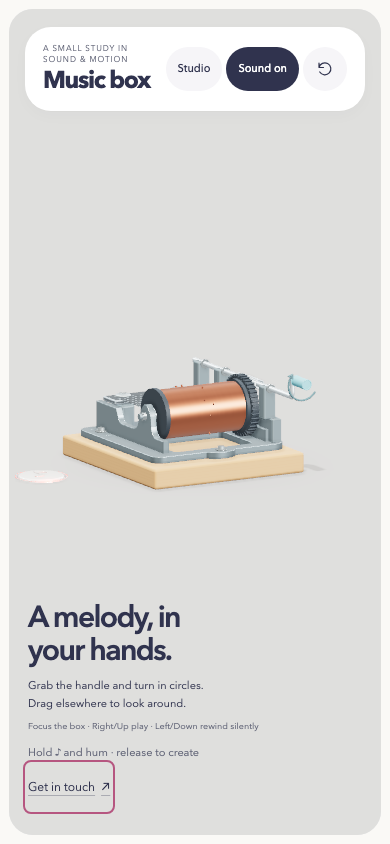
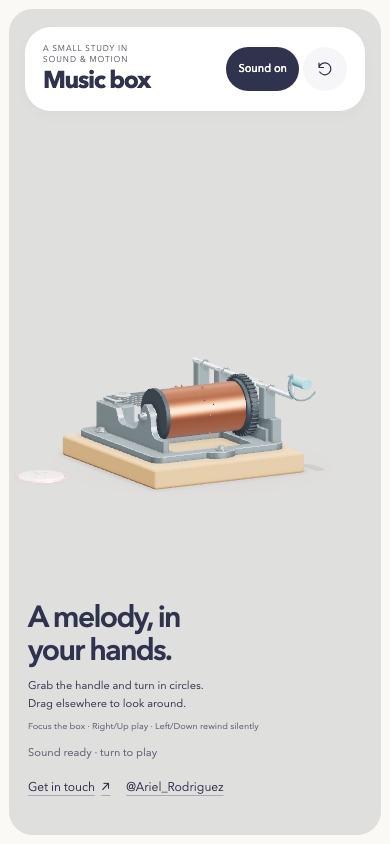
feat: add visitor mode and personal maker signature

Changed region(s): [[0.0615, 0.8626, 0.5846, 0.955], [0.4615, 0.0616, 0.5231, 0.0924], [0.0615, 0.955, 0.0923, 0.9858]]

diff --git a/src/main.js b/src/main.js
@@ -13,7 +13,7 @@ import { MusicAudio } from './audio.js'
 import { createCrankHint } from './crank-hint.js'
 import { createFallingNotes } from './falling-notes.js'
 import { createRecordButton } from './record-button.js'
-import { createStudio } from './studio.js'
+import { createSceneState } from './scene-state.js'
 import { DEFAULT_SETTINGS, clone } from './studio-config.js'
 
 const app = document.querySelector('#app')
@@ -134,6 +134,7 @@ const intersection = new THREE.Vector3()
 const abort = new AbortController()
 const listen = (target, type, callback, options = {}) => target.addEventListener(type, callback, { ...options, signal: abort.signal })
 let studio = null
+let sceneState = null
 let applying = false
 let currentSettings = clone(DEFAULT_SETTINGS)
 const fallingNotes=createFallingNotes();scene.add(fallingNotes.root)
@@ -142,7 +143,7 @@ const texturePool = new Map()
 rememberPartPositions()
 controls.addEventListener('change', () => {
   dirty = true
-  if (!applying && studio) studio.syncCamera(cameraSnapshot())
+  if (!applying && sceneState) sceneState.syncCamera(cameraSnapshot())
 })
 
 function increment(delta) {
@@ -211,7 +212,7 @@ listen(canvas, 'pointerdown', event => {
   if (!raycaster.intersectObject(box.hitTarget).length) return
   if (isExploded()) {
     event.stopImmediatePropagation(); event.preventDefault()
-    studio.assemble()
+    sceneState.assemble()
     return
   }
   // Capture phase runs before OrbitControls' pointer listener.
@@ -259,7 +260,7 @@ listen(canvas, 'keydown', event => {
   if (!['ArrowRight', 'ArrowLeft', 'ArrowUp', 'ArrowDown'].includes(event.key)) return
   event.preventDefault()
   if (activePointer !== null || event.repeat) return
-  if (isExploded()) studio.assemble()
+  if (isExploded()) sceneState.assemble()
   unlock()
   increment(PLAY_DIRECTION * (['ArrowRight', 'ArrowUp'].includes(event.key) ? Math.PI / 6 : -Math.PI / 6))
 })
@@ -267,15 +268,15 @@ listen(canvas,'keyup',event=>{if([' ','Enter'].includes(event.key)&&keyboardReco
 listen(canvas,'blur',()=>{if(keyboardRecording){keyboardRecording=false;recordButton?.cancel()}})
 listen(document.querySelector('#sound'), 'click', async () => {
   const button = document.querySelector('#sound')
-  if (!audio.context) await unlock()
-  else audio.muted = !audio.muted
-  button.setAttribute('aria-pressed', String(audio.muted))
+  audio.muted = !audio.muted
+  if(!audio.muted)await unlock()
+  button.setAttribute('aria-pressed', String(!audio.muted))
   button.textContent = audio.muted ? 'Sound off' : 'Sound on'
   status.textContent = audio.muted ? 'Sound off' : 'Sound ready · turn to play'
 })
 function resetView() {
   stop()
-  studio?.setCamera(clone(DEFAULT_SETTINGS.camera))
+  sceneState?.setCamera(clone(DEFAULT_SETTINGS.camera))
 }
 listen(document.querySelector('#reset'), 'click', resetView)
 function resize() {
@@ -298,23 +299,31 @@ function resize() {
 }
 listen(reducedMotion,'change',()=>{fallingNotes.clear();dirty=true})
 listen(window, 'resize', resize)
-studio = createStudio({
-  apply: applySettings,
-  capture: captureScene,
-  pick: active => canvas.classList.toggle('picking', active),
-  frameModel,
-  resetCamera: resetView,
-  previewCrankArrow:active=>{crankHint.preview(active);dirty=true},
-  clearFallingNotes:()=>{fallingNotes.clear();dirty=true},
-  recordingChanged: recordingChanged,
-  canRecord:()=>!capturing&&(!recordButton||recordButton.state()==='idle'),
-})
+if(import.meta.env.DEV&&new URLSearchParams(location.search).get('studio')==='1') {
+  const toggle=document.createElement('button')
+  toggle.id='studio-toggle';toggle.textContent='Studio';toggle.setAttribute('aria-controls','studio-panel');toggle.setAttribute('aria-expanded','false')
+  document.querySelector('.actions').prepend(toggle)
+  const {createStudio}=await import('./studio.js')
+  studio = createStudio({
+    apply: applySettings,
+    capture: captureScene,
+    pick: active => canvas.classList.toggle('picking', active),
+    frameModel,
+    resetCamera: resetView,
+    previewCrankArrow:active=>{crankHint.preview(active);dirty=true},
+    clearFallingNotes:()=>{fallingNotes.clear();dirty=true},
+    recordingChanged: recordingChanged,
+    canRecord:()=>!capturing&&(!recordButton||recordButton.state()==='idle'),
+  })
+  sceneState=studio
+} else sceneState=createSceneState({apply:applySettings,message:text=>{status.textContent=text}})
+
 recordButton=createRecordButton({
   changed:()=>{dirty=true}, recordingChanged,
-  canStart:()=>!capturing&&!studio.tuneBusy(),
+  canStart:()=>!capturing&&!studio?.tuneBusy(),
   currentColor:()=>currentSettings.materials.cylinder.color,
   message:text=>{status.textContent=text},
-  install:(melody,color)=>{const next=studio.getSettings();next.melody=melody;next.materials.cylinder.color=color;next.composition.explode=0;for(const key of Object.keys(next.composition.offsets))next.composition.offsets[key]={x:0,y:0,z:0};studio.setSettings(next)},
+  install:(melody,color)=>{const next=sceneState.getSettings();next.melody=melody;next.materials.cylinder.color=color;next.composition.explode=0;for(const key of Object.keys(next.composition.offsets))next.composition.offsets[key]={x:0,y:0,z:0};sceneState.setSettings(next)},
 })
 scene.add(recordButton.root)
 recordButton.configure(currentSettings.recordButton)
@@ -340,7 +349,7 @@ renderer.setAnimationLoop(() => {
   composer.render()
 })
 if (import.meta.hot) import.meta.hot.dispose(() => {
-  stop(); crankHint.dispose(); fallingNotes.dispose(); recordButton?.dispose(); studio?.dispose(); abort.abort(); renderer.setAnimationLoop(null); controls.dispose(); audio.dispose()
+  stop(); crankHint.dispose(); fallingNotes.dispose(); recordButton?.dispose(); sceneState?.dispose?.();document.querySelector('#studio-toggle')?.remove(); abort.abort(); renderer.setAnimationLoop(null); controls.dispose(); audio.dispose()
   disposeObject(scene)
   texturePool.forEach(texture => texture.dispose())
   environment.dispose(); occlusion.dispose(); outputPass.dispose(); composer.dispose(); renderer.dispose(); canvas.remove()
@@ -466,7 +475,7 @@ function frameModel() {
   const bounds = new THREE.Box3().setFromObject(box.root)
   const center = bounds.getCenter(new THREE.Vector3()), size = bounds.getSize(new THREE.Vector3())
   const diameter = Math.max(size.x, size.y, size.z)
-  studio.setCamera({ target: { x: center.x, y: center.y, z: center.z }, zoom: Math.min(2, Math.max(.4, 2.65 / diameter)), distance: Math.min(10, Math.max(2.6, diameter * 2.5)) })
+  sceneState.setCamera({ target: { x: center.x, y: center.y, z: center.z }, zoom: Math.min(2, Math.max(.4, 2.65 / diameter)), distance: Math.min(10, Math.max(2.6, diameter * 2.5)) })
 }
 function surfaceTexture(part, type) {
   const key = `${part}:${type}`

diff --git a/src/scene-state.js b/src/scene-state.js
@@ -1,0 +1,45 @@
+import projectStudy from '../studies/current.json' with { type: 'json' }
+import { clone, validateSettings, GROUPS } from './studio-config.js'
+
+import { DRAFT_KEY, readSceneDraft } from './scene-storage.js'
+export const SAVED_SETTINGS=validateSettings(projectStudy.settings)
+
+// Visitor state keeps recording and saved designs working without constructing editor UI.
+export function createSceneState({apply,message}) {
+  let settings=clone(SAVED_SETTINGS)
+  function persist() {
+    try {localStorage.setItem(DRAFT_KEY,JSON.stringify({updatedAt:Date.now(),settings}))}
+    catch {message('This browser cannot save your changes across refresh.')}
+  }
+  function commit(next) {
+    const checked=validateSettings(next),previous=settings
+    apply(checked,previous);settings=checked;persist()
+  }
+  const ready=(async()=>{
+    // Let the mechanism and recording button finish initializing before applying a study.
+    await Promise.resolve()
+    let saved=projectStudy
+    if(import.meta.env.DEV) {
+      try {
+        const response=await fetch('/__musicbox/study')
+        if(!response.ok)throw new Error('Could not load the local study.')
+        const local=await response.json()
+        if(local.settings)saved={...local,settings:validateSettings(local.settings)}
+      } catch {message('Using the bundled setup; the local study could not be loaded.')}
+    }
+    settings=validateSettings(saved.settings)
+    try {
+      const draft=readSceneDraft()
+      if(draft?.settings&&draft.updatedAt>(Date.parse(saved.savedAt)||0))settings=validateSettings(draft.settings)
+    } catch {message('Could not restore browser changes; using the saved setup.')}
+    apply(settings,null)
+  })()
+  return {
+    ready,
+    getSettings:()=>clone(settings),
+    setSettings:commit,
+    setCamera(camera){const next=clone(settings);next.camera={...next.camera,...camera};commit(next)},
+    syncCamera(camera){settings.camera={...settings.camera,...camera};persist()},
+    assemble(){const next=clone(settings);next.composition.explode=0;for(const key of Object.keys(GROUPS))next.composition.offsets[key]={x:0,y:0,z:0};commit(next)},
+  }
+}

diff --git a/index.html b/index.html
@@ -10,12 +10,12 @@
   <body>
     <header>
       <div><p class="eyebrow">A small study in sound &amp; motion</p><h1>Music box</h1></div>
-      <div class="actions"><button id="studio-toggle" aria-controls="studio-panel" aria-expanded="false">Studio</button><button id="sound" aria-pressed="false">Sound on</button><button id="reset" aria-label="Reset view"><svg aria-hidden="true" viewBox="0 0 24 24" width="18" height="18" fill="none" stroke="currentColor" stroke-width="1.6"><path d="M4 10a8 8 0 1 1 1 6M4 4v6h6" stroke-linecap="round" stroke-linejoin="round"/></svg><span>Reset view</span></button></div>
+      <div class="actions"><button id="sound" aria-pressed="true">Sound on</button><button id="reset" aria-label="Reset view"><svg aria-hidden="true" viewBox="0 0 24 24" width="18" height="18" fill="none" stroke="currentColor" stroke-width="1.6"><path d="M4 10a8 8 0 1 1 1 6M4 4v6h6" stroke-linecap="round" stroke-linejoin="round"/></svg><span>Reset view</span></button></div>
     </header>
     <main id="app"></main>
     <footer>
       <div id="instructions"><p class="lead">A melody, in your hands.</p><p>Grab the handle and turn in circles.<br>Drag elsewhere to look around.</p><p class="note">Focus the box · Right/Up play · Left/Down rewind silently</p></div>
-      <div class="footer-aside"><p id="status" role="status">Sound starts with your first turn.</p><a class="contact-link" href="mailto:ariel.rodriguez@rho.co" aria-label="Email Ariel Rodriguez">Get in touch <span aria-hidden="true">↗</span></a></div>
+      <div class="footer-aside"><p id="status" role="status">Sound starts with your first turn.</p><nav class="contact-links" aria-label="Contact Ariel"><a class="contact-link" href="mailto:ariel.rodriguez@hey.com" aria-label="Email Ariel Rodriguez">Get in touch <span aria-hidden="true">↗</span></a><a class="contact-link" href="https://x.com/Ariel_Rodriguez" target="_blank" rel="noopener noreferrer" aria-label="@Ariel_Rodriguez on X (opens in a new tab)">@Ariel_Rodriguez</a></nav></div>
     </footer>
     <script type="module" src="/src/main.js"></script>
   </body>

diff --git a/tests/scene-storage.test.js b/tests/scene-storage.test.js
@@ -1,0 +1,28 @@
+import test from 'node:test'
+import assert from 'node:assert/strict'
+import { DEFAULT_SETTINGS, clone } from '../src/studio-config.js'
+import { DRAFT_KEY, readSceneDraft } from '../src/scene-storage.js'
+
+function withStorage(entries,run) {
+  const previous=Object.getOwnPropertyDescriptor(globalThis,'localStorage'),values=new Map(entries)
+  Object.defineProperty(globalThis,'localStorage',{configurable:true,value:{getItem:key=>values.get(key)??null,setItem:(key,value)=>values.set(key,value)}})
+  try{run(values)}finally{if(previous)Object.defineProperty(globalThis,'localStorage',previous);else delete globalThis.localStorage}
+}
+test('existing Studio drafts migrate without altering a captured hum or the legacy backup',()=>{
+  const settings=clone(DEFAULT_SETTINGS);settings.scene.showMark=false
+  settings.melody={notes:[{midi:60,start:0,duration:.4},{midi:64,start:.6,duration:.3}],transpose:12}
+  const legacy=JSON.stringify({updatedAt:123,settings})
+  withStorage([['music-box-studio-v1',legacy]],values=>{
+    const migrated=readSceneDraft()
+    assert.deepEqual(migrated.settings.melody,settings.melody)
+    assert.equal(migrated.settings.scene.showMark,true)
+    assert.equal(migrated.updatedAt,123)
+    assert.equal(values.get('music-box-studio-v1'),legacy)
+    assert.equal(values.has(DRAFT_KEY),false)
+  })
+})
+test('current drafts keep an explicit later choice to hide the signature',()=>{
+  const settings=clone(DEFAULT_SETTINGS);settings.scene.showMark=false
+  const current={updatedAt:456,settings}
+  withStorage([[DRAFT_KEY,JSON.stringify(current)],['music-box-studio-v1','bad legacy data']],()=>assert.deepEqual(readSceneDraft(),current))
+})

diff --git a/src/model.js b/src/model.js
@@ -199,13 +199,16 @@ export function createMusicBox(shape = DEFAULT_GEOMETRY, pins = PINS) {
   const labelCanvas = document.createElement('canvas')
   labelCanvas.width = 512; labelCanvas.height = 128
   const ctx = labelCanvas.getContext('2d')
-  ctx.font = 'bold 46px Arial'; ctx.textAlign = 'center'; ctx.fillStyle = '#7d695b'
-  ctx.fillText('www.fridolin.de', 256, 80)
+  ctx.font = 'bold 46px Arial'; ctx.textAlign = 'center'; ctx.textBaseline = 'middle'; ctx.fillStyle = '#35291f'
+  ctx.fillText('@Ariel_Rodriguez', 256, 64)
   const labelTexture = new THREE.CanvasTexture(labelCanvas)
   labelTexture.colorSpace = THREE.SRGBColorSpace
-  const label = mesh(new THREE.PlaneGeometry(0.65, 0.1625), new THREE.MeshBasicMaterial({ map: labelTexture, transparent: true, depthWrite: false, side: THREE.DoubleSide }), base, 0, -0.002, 0)
+  const label = mesh(new THREE.PlaneGeometry(0.9, 0.225), new THREE.MeshStandardMaterial({ map: labelTexture, transparent: true, depthWrite: false, roughness: .95, metalness: 0, side: THREE.FrontSide }), base, 0, -0.002, 0)
   label.rotation.x = Math.PI / 2
   label.name = 'maker-mark'
+  label.userData.signature = '@Ariel_Rodriguez'
+  label.userData.opticalGlow = true
+  label.castShadow = false
   frameAssembly.position.y = lift; comb.position.y = lift
   cylinder.position.y += lift; crank.position.y += lift
   const materialCache = new Map()

diff --git a/src/studio.js b/src/studio.js
@@ -3,7 +3,7 @@ import { MAX_FALLING_NOTES } from './falling-notes.js'
 import { createTuneStudio } from './tune-studio.js'
 import { DEFAULT_SETTINGS, PARTS, GROUPS, PRESETS, GEOMETRY_BOUNDS, defaultButtonPosition, clone, validateSettings, makePreset } from './studio-config.js'
 
-const DRAFT_KEY = 'music-box-studio-v1'
+import { DRAFT_KEY, readSceneDraft } from './scene-storage.js'
 const FINISHES = {
   'Satin metal': { metalness: 0.85, roughness: 0.32, clearcoat: 0, texture: 'brushed' },
   'Polished metal': { metalness: 0.98, roughness: 0.12, clearcoat: 0, texture: 'none' },
@@ -431,8 +431,8 @@ export function createStudio({ apply, capture, pick, frameModel, resetCamera, re
       }
     } catch(error){loadError=error.message}
     try {
-      const stored=localStorage.getItem(DRAFT_KEY)
-      if(stored){draft=JSON.parse(stored);draft.settings=validateSettings(draft.settings)}
+      draft=readSceneDraft()
+      if(draft?.settings)draft.settings=validateSettings(draft.settings)
     } catch(error){loadError=error.message;draft=null}
     if (draft?.settings && (!savedStudy || draft.updatedAt > (Date.parse(project?.savedAt)||0))) commit(draft.settings, 'Restored this browser’s draft.')
     else if(savedStudy){commit(clone(savedStudy), 'Loaded your saved setup.');preset.value='saved'}

diff --git a/src/studio-config.js b/src/studio-config.js
@@ -25,7 +25,7 @@ export const DEFAULT_SETTINGS = {
     rim: light('#e6f8ff', 2.2, 205, 45),
     environment: 1, environmentRotation: 20, ambient: 0.3,
   },
-  scene: { background: '#f5f3ee', exposure: 1, toneMapping: 'aces', shadows: true, shadowOpacity: 0.3, shadowSoftness: 5, contactOpacity: 0.7, ao: true, aoRadius: 0.09, showMark: false },
+  scene: { background: '#f5f3ee', exposure: 1, toneMapping: 'aces', shadows: true, shadowOpacity: 0.3, shadowSoftness: 5, contactOpacity: 0.7, ao: true, aoRadius: 0.09, showMark: true },
   camera: {"projection":"orthographic","azimuth":-47.770876421923504,"elevation":33.82652533609099,"distance":5.400000000000002,"zoom":1,"fov":38,"target":{"x":0.05999999999999999,"y":0.42000000000000004,"z":0.11999999999999998}},
   geometry: { ...DEFAULT_GEOMETRY },
   composition: { explode: 0, rotation: 0, offsets: Object.fromEntries(Object.keys(GROUPS).map(key => [key, { x: 0, y: 0, z: 0 }])) },

diff --git a/src/style.css b/src/style.css
@@ -83,3 +83,8 @@ canvas.over-record { cursor: pointer; }
 .contact-link:focus-visible { outline: 2px solid var(--rose); outline-offset: 3px; border-radius: 3px; }
 @media(hover:hover) { .contact-link:hover { text-decoration-color: currentColor; } }
 @media(max-width:580px) { .footer-aside { align-items: flex-start; } }
+
+.contact-links { display: flex; flex-wrap: wrap; align-items: center; justify-content: flex-end; column-gap: 18px; }
+@media(max-width:580px) { .contact-links { justify-content: flex-start; column-gap: 16px; } }
+
+#sound[aria-pressed="false"] { background: #f6f5f8; color: var(--ink); }

diff --git a/src/scene-storage.js b/src/scene-storage.js
@@ -1,0 +1,14 @@
+import { validateSettings } from './studio-config.js'
+
+export const DRAFT_KEY='music-box-scene-v1'
+
+export function readSceneDraft() {
+  const current=localStorage.getItem(DRAFT_KEY)
+  if(current)return JSON.parse(current)
+  const legacy=JSON.parse(localStorage.getItem('music-box-studio-v1')||'null')
+  if(!legacy?.settings)return null
+  legacy.settings=validateSettings(legacy.settings)
+  // The old visibility choice applied to the original manufacturer's URL.
+  legacy.settings.scene.showMark=true
+  return legacy
+}

diff --git a/README.md b/README.md
@@ -13,7 +13,7 @@ Vite, vanilla JavaScript, Three.js, Web Audio, and Pitchy for microphone pitch d
 
 ## Browser scene studio
 
-Studio is closed on page load. The **Studio** button opens controls alongside the live design. Changes preview immediately; they do not turn the crank. On narrow screens the preview sits above a scrolling control panel.
+The visitor page does not render Studio. For local editing, open **http://localhost:5173/?studio=1** and use the **Studio** button to open controls alongside the live design. Production builds omit the editor UI, even with that URL parameter. Changes preview immediately; they do not turn the crank. On narrow screens the preview sits above a scrolling control panel.
 
 - **Materials:** choose one of eight part categories, or use **Pick a part in the scene**. Each category has its own color, metalness, roughness, clear coating, texture and opacity. Finish recipes apply to the selected category only. Starting looks preview a style while retaining your notes, tune and button settings; previews do not replace your stored working draft.
 - **Lighting:** main, fill and rim lights each have an enable switch, color, strength, direction, elevation and shadow switch. Studio reflections are the surrounding light reflected in metal. Control their intensity and rotation independently of direct lights. Compare cast shadows, the soft contact overlay and ambient occlusion separately.
@@ -165,7 +165,7 @@ Current agreed capture scope is microphone only, initiated by a user action and 
 
 ### Pitchy microphone trial
 
-Open **Studio → Tune**. Choose 5, 10 or 15 seconds, press **Record a melody**, and approve the browser microphone prompt if needed. Hum/whistle or play one melodic instrument; **Stop & analyze** ends early and **Cancel** discards the new capture. A song through speakers can be tried, but chords, drums and competing voices can confuse this single-pitch detector. It is not source separation or complete song transcription.
+In the local editor at **http://localhost:5173/?studio=1**, open **Studio → Tune**. Choose 5, 10 or 15 seconds, press **Record a melody**, and approve the browser microphone prompt if needed. Hum/whistle or play one melodic instrument; **Stop & analyze** ends early and **Cancel** discards the new capture. A song through speakers can be tried, but chords, drums and competing voices can confuse this single-pitch detector. It is not source separation or complete song transcription.
 
 Review detected pitches and their adapted music-box pitches. An automatically suggested whole-octave shift fits the melody to the existing C-major comb; change it with **Octave shift**. Chromatic/out-of-range notes move to the nearest available tine and are counted as adjusted. Remove stray notes; use **Preview arrangement** to hear the synthesized music-box notes at the captured timing, and press it again to stop. Preview is an explicit review player; the installed cylinder still plays only from crank/keyboard rotation. **Build this cylinder** replaces pins and resets rotation to the start. **Restore original tune** restores the original 48-pin study. Starting looks preserve an installed custom tune.
 
@@ -367,4 +367,22 @@ The 3D guide’s arc, arrowhead and idle spin now point in the playing direction
 
 Source is backed up privately at https://github.com/Ariels713/music-box on feature/initial-music-box. No site hosting/deployment is configured. Install with npm ci and run the local Vite server on port 5173. Source photos, saved studies and verification evidence are included; dependencies, build output and environment files are excluded.
 
-Studio starts closed, including after refresh, while its button remains available. The footer has a keyboard/touch-accessible Get in touch mailto link to the email Ariel provided: ariel.rodriguez@rho.co. It opens the visitor’s email app without sending anything automatically. No LinkedIn URL was supplied. The contact link can later be changed in index.html.
+Studio remains in source and is available only through the local development editor URL; it is not constructed in the visitor DOM or bundled into production. The footer has a Get in touch mailto link to **ariel.rodriguez@hey.com** and **@Ariel_Rodriguez** linking to https://x.com/Ariel_Rodriguez. Both are keyboard/touch accessible. The email link opens the visitor’s mail app with only the recipient filled in; no email is sent automatically. Contact links are in index.html.
+
+### Visitor view and retained local editor
+
+Normal localhost and production pages construct only the instrument, recording button and visitor controls. The full Studio source is preserved and loaded dynamically only on the development server with ?studio=1. Production ignores the parameter and omits editor code/CSS; no Studio button or panel is created. This is a presentation/build separation, not an authentication system.
+
+src/scene-state.js keeps saved settings, camera changes and new microphone cylinders working independently of the UI. Production bundles studies/current.json, so the approved design and existing hummed tune survive a static build; it does not call the local Save API. New visitor recordings stay in that browser’s draft. The editor uses the same draft key, so opening the local editor restores the hum and allows Save study to update the project for the next build. The existing saved melody was left unchanged; no original jazz replacement was installed.
+
+Build/19 Node tests and the visitor browser suite cover absent Studio DOM/modules, production ignoring ?studio=1, exact approved melody retained, synthetic microphone capture/reload/editor handoff, the updated email/X links, desktop/mobile layouts and no console errors. Fake audio only; no physical microphone accessed by the tests. A temporary local preview on port5174 was used to test dist; no deployment was performed.
+
+### Sound enabled and personal underside signature
+
+Sound starts enabled. No notes play on load: the first crank/key gesture unlocks Web Audio, and only subsequent physical pin crossings produce notes. The Sound on/off button now reports its enabled state through aria-pressed and toggles consistently, including its first click; muted state has a lighter visual treatment.
+
+The original underside manufacturer URL is replaced by @Ariel_Rodriguez, matching IMG_3618.HEIC’s small, centered dark sans-serif printing directly on wood. It is a transparent, rough-lit surface decal rather than a plaque; rotate beneath the base to see it. Its default visibility is on and local Studio still has the maker-mark checkbox. The approved study only changed that visibility field—its hummed melody is unchanged. The footer retains the clickable X handle and Get in touch links.
+
+Scene drafts now use music-box-scene-v1. The shared reader accepts legacy music-box-studio-v1 drafts without deleting or altering that backup, preserves the captured melody and enables the new personal signature (the old visibility preference described the manufacturer URL). The next edit writes the new key. A later explicit signature visibility choice in the new draft is respected. Node migration checks cover both cases.
+
+Build and21 Node checks pass. Browser checks verify outward-facing underside text, default-enabled sound with no autoplay, user-gesture audio unlock/voices/toggling, visitor/prod/editor separation, fake-mic recording persistence and contact links. Evidence: verification/twitter-underside.png and visitor-defaults-*.png. Audio signal/state tested; not human listening. Local preview testing is not deployment.
